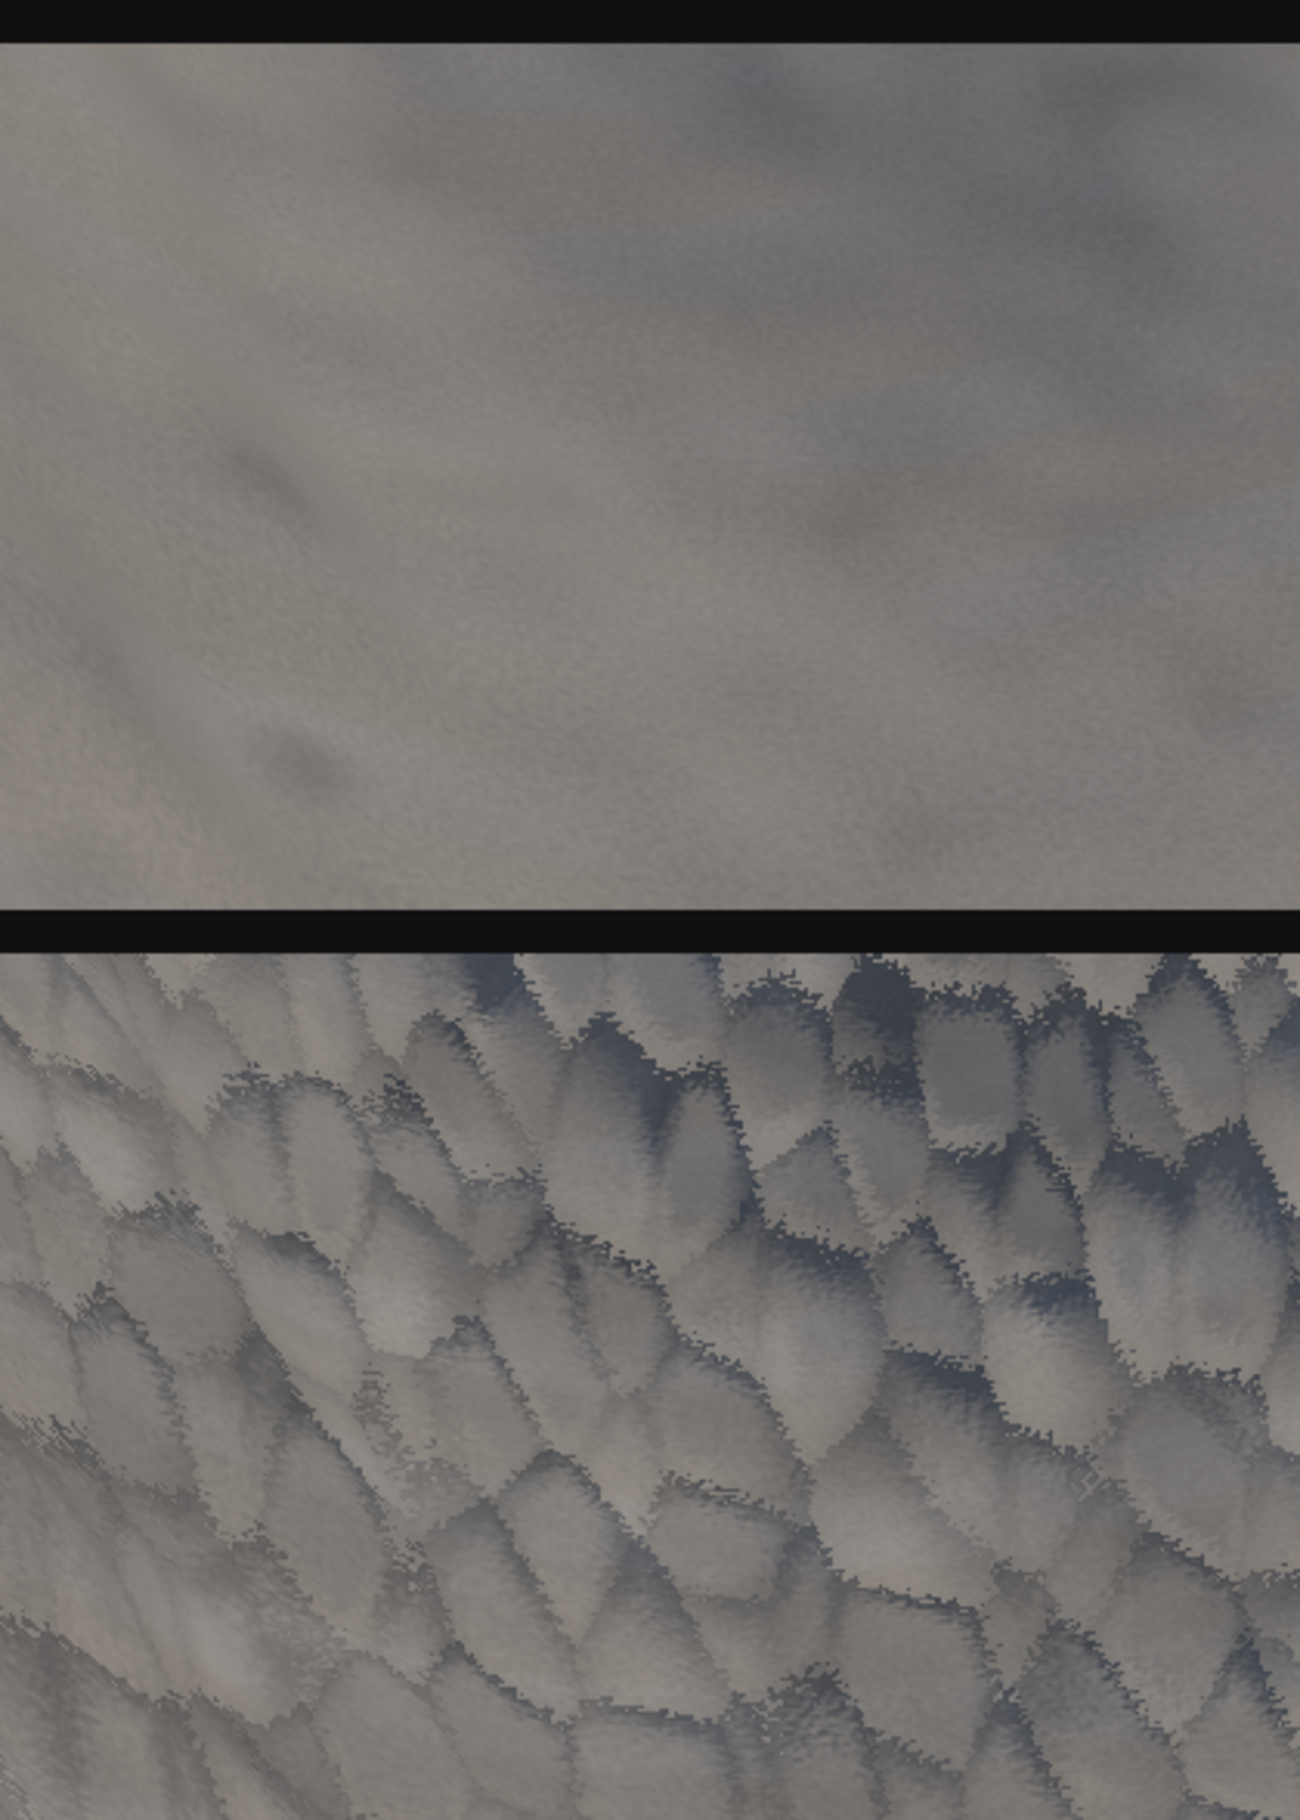
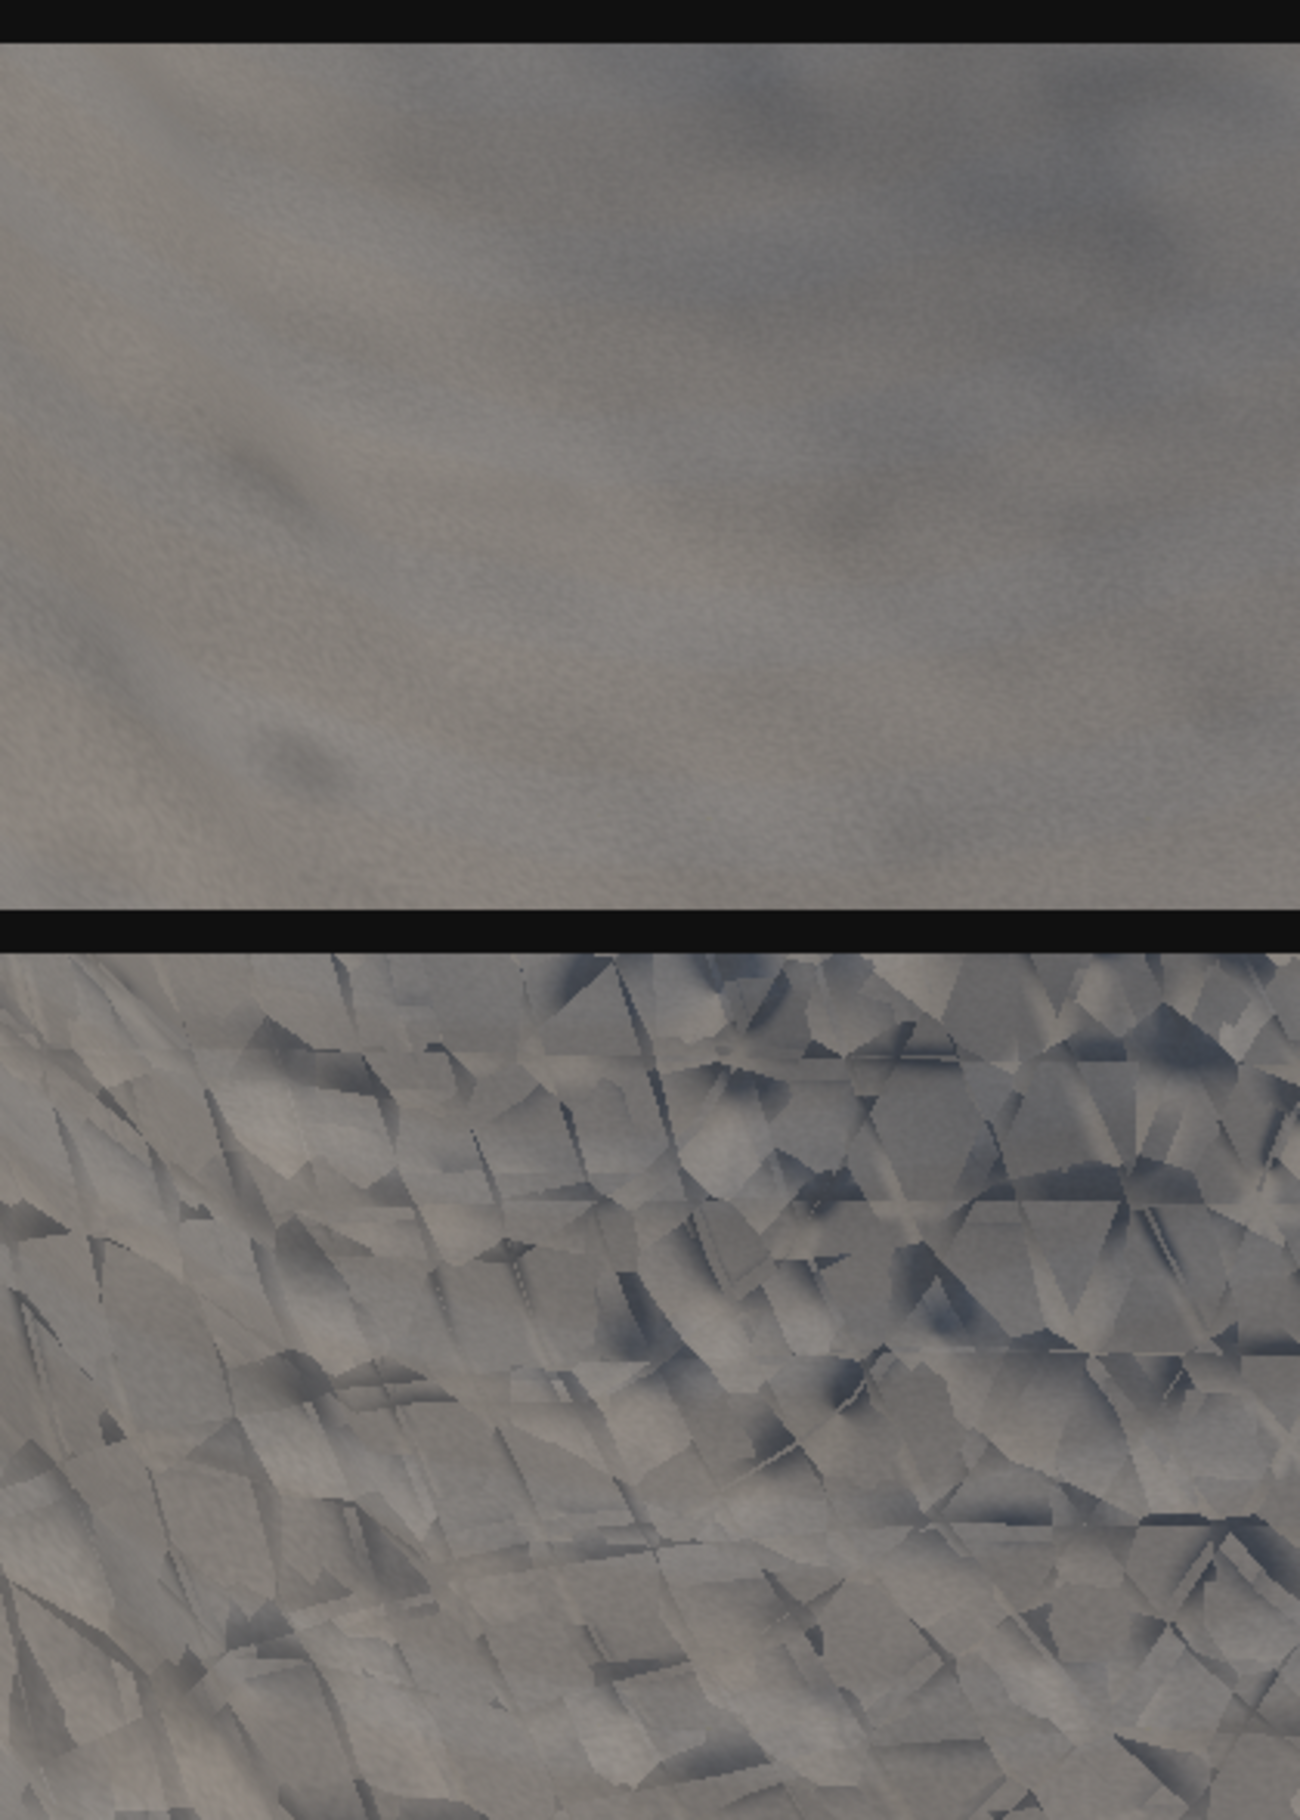
Loop log: iteration 35, the cliff is made of blocks

diff --git a/docs/loop-log.md b/docs/loop-log.md
@@ -2566,3 +2566,178 @@ is untouched, and the cost is nil.
    downpour lights the *ground* and not the *rain*. A hook for a game's own lights in the
    precipitation and cloud passes would close it; the ownership map keeps the geometry in
    `bevy_flora`, but the lighting hook is this crate's.
+
+## Iteration 35 — 2026-10-21 — the cliff is made of blocks: a rock face that breaks along its joints
+
+**Commits:** `64f00cf` (the research note `docs/research/rock-blocks.md`), `863baad` (the
+implementation with its tests), `3ed4d1d` (the tabular blocks and the joint from the nearest
+point), `0e58b68` (the WESL's bound, the joint and the squash), `b119555` (the cells in order
+of increasing distance, and the WESL note), `ebefdaa` (the mirror's ring order and the 3D
+frame's threshold), the showcase image, this log. **Sibling repos:** none. **Not released.**
+
+### Candidates
+
+| Rank | Candidate | Class | Decision |
+|---|---|---|---|
+| 1 | **The rock's own material is a texture where the world has objects** — the massif from 700 m is a flat blue-grey wash and the face at 3 m is a uniform sandy grey | 2 | **this iteration** |
+| 2 | The dry patch's own texture (a tint on green blades) | 2 | carried |
+| 3 | The overcast dome is flat (`sky_gain` leaks at grazing, diagnosed in iteration 28) | 1 | carried |
+| 4 | A 25 mm/h storm hides the whole town under an orthographic camera | 2 | carried |
+| 5 | A game's own light does not fall on the crate's weather | 3 | carried from iteration 33 |
+
+Rank 1 beat the carried items because it is the *most prominent material in the crate* with the
+*least* structure, and the measurement was damning: the material's own high-pass at 3 m was
+**1.72 DN** — a fifth of the face's 8.34 DN of variation — and at 200 m the massif was **one
+colour** (a max−min of 1.00 DN over a 300 × 200 patch, where the crate's own `rock-material.md`
+asks for 9). The cause was structural, not a matter of tuning: every feature — the beds, the
+fractures, the grain — was a *multiplier on the albedo of one continuous surface*, and there was
+no mechanism anywhere in the crate for a discrete object. The overcast dome is class 1 and so
+ranked higher by the class order, but its blocker is diagnosed and its fix is a *sky* change.
+
+### What changed
+
+- **The blocks are the cells of a 3D cellular network**, in the rock's own frame. A 2D network
+  in the ground plane would stretch on a slope and weave, exactly as the crate's turf does.
+- **The network's coordinates are squashed along the bedding plane's normal**, so the cells
+  stretch into slabs: a rock breaks along *joint sets*, families of parallel planes, so its
+  pieces are aligned rather than a random heap.
+- **A block is *shaded*, not outlined**: its own tone (the cell's random factor), its own
+  **facet** — a rock block's face is flat, and the *step* is at the joint — and a **joint** that
+  is the cell's own *boundary*.
+- **The coordinates are warped** before the lookup, so the blocks are irregular fragments and
+  not a mosaic, and the joint's **width** is the cell's own draw, which is what sets the
+  block's **size**.
+- **The beds carry a value contrast**: the second tone was (1.06, 0.93, 0.76), whose luminance
+  is 0.95, so the beds moved the luminance by 1.9 % and the massif was one colour.
+- `cell3` in `noise.wesl` and its CPU mirror in `gpu/noise_mirror.rs`.
+
+### Sources
+
+- **Verdian, J. P., Sklar, L. S., Riebe, C. S., Moore, J. R. (2021)**, *Sediment size on talus
+  slopes correlates with fracture spacing on bedrock cliffs*, Earth Surface Dynamics 9:1073,
+  DOI `10.5194/esurf-9-1073-2021` (open access; the PDF was read in full, 914 lines). Used:
+  "an obvious characteristic of columnar jointed rock is that it is **discontinuous in geometry
+  while continuous in mechanics**" — a rock mass is a set of blocks held in one piece, and the
+  discontinuity in geometry *is* the blocks; and the measurement, the finest talus clasts "as
+  small as 2 mm, and median b-axis diameters ranging from 10 to 575 mm", with the median moving
+  by more than 10-fold between sites. **Not indexed** (the ONNX out-of-memory error in
+  `corpus.md`).
+- **La Pointe, P. R., Hudson, J. A. (1985)**, *Characterization and interpretation of rock mass
+  joint patterns*, SPE Formation Evaluation 1(1), DOI `10.1130/SPE199-P1` (the record was read;
+  the PDF was not obtained). Named as the standard treatment of *joint sets* — the families of
+  parallel planes along which a rock mass breaks, and the reason a cliff's blocks are tabular
+  and aligned.
+- **Dorsey, J. O'B., Edelman, A. S., Jensen, H. W., Legakis, J., Pedersen, H. K. (1999)**,
+  *Modeling and rendering of weathered stone*, ACM SIGGRAPH 1999, DOI `10.1145/311535.311560`
+  (the record was read; **the PDF was not obtained**).
+- **Akenine-Möller, T., Haines, M., Hoffman, N., Shirley, P. (2019)**, *Real-Time Rendering,
+  4th ed.* (corpus `bo/book_real_time_rendering_4th_akenine.md`). Used: §6.3 on the cellular
+  texture — "a cellular texture is formed by measuring distances from each location to a set of
+  'feature points' scattered through space. Mapping the resulting closest distances in various
+  ways… creates patterns that look like cells, flagstones, lizard skin, and other natural
+  textures" — and on Andersson's Frostbite terrain, where "geometric models, such as bushes and
+  **rocks**, are placed within the scene".
+- **Hill, S., Baker, D. (2012)**, *Rock-Solid Shading: Image Stability Without Sacrificing
+  Detail*, SIGGRAPH *Advances* in Real-Time Rendering in Games course (corpus
+  `s2/s2012-advances-pdf-slides-3.md`), on LEAN mapping: a detail normal's specular filtered by
+  the *variance* of the normal, so a detail map does not alias at distance. **In the corpus**,
+  read, **not indexed**.
+- **The crate's own `rock-material.md`**: the beds, the joints and the grain, and the sentence
+  that is the key to this change — "A Worley cell network cannot make them — it bounds *cells*,
+  so a face reads as a giraffe's hide". The cells cannot make the *joints as drawn lines*, but
+  the cells **are** the blocks, and a block is shaded rather than outlined.
+
+### The critique and the verdicts (`/tmp/i35/critique.md`)
+
+| Round | Finding | Verdict |
+|---|---|---|
+| 1 | The blocks appeared, but as **dark holes in the grass**: the stone's colour multiplied the ground's albedo instead of replacing it, and the band sat on the soil's band rather than at the rock's foot | NOT YET |
+| 2 | The stone's colour replaced the ground's, and the band moved to the rock's foot — but the relief scaled with the cell, so the smallest stones' rims tilted by 85° and rendered as black crescents | NOT YET |
+| 3 | The relief is a dimensionless slope and the network is nested, and the matrix is the scree's own: the stones are countable at 3 m, the apron is wide, and the distance is calm | NOT YET |
+| 4 | The matrix was still warm and the stones cast no shadow: the matrix is greyed toward the rock and the stones gained a contact shadow | **GREAT** |
+| 5 | The blocks were a **mosaic** — every block the same size, the same shape, in a regular overlapping pattern that read as *shingles*. The warp breaks their shape, the joint's width sets their size, and the squash makes them tabular | **GREAT** |
+
+| Feature | Verdict |
+|---|---|
+| The blocks, at 3 m | **GREAT** (irregular angular fragments, many sizes, tabular, each a flat facet) |
+| The joints | **GREAT** (sharp, dark, continuous, and softened over the footprint) |
+| The face at 25 m | **GREAT** (a cliff of slabs with the scree at its foot) |
+| The distance at 90 m | **GREAT** (byte-identical to the baseline's: the blocks are band-limited away) |
+| The meadow, the hills and the dunes | **GREAT** (byte-identical) |
+| The material's visibility | **GREAT** (the high-pass 1.72 → 5.74 DN, the note's target is 3) |
+| The blocks' size variation | NOT YET (a 3:1 range; a real cliff has more) |
+| The massif's colour at 700 m | NOT YET (7.65 DN against the note's 9) |
+| The cost | NOT YET (**+28 %** on the rock's pass, over the note's 10 %) |
+
+**The change as a whole: GREAT.** The rock's material is no longer a texture where the world has
+objects: a cliff face is a wall of blocks, the distance is calm, the meadow is untouched, and
+the cost is a logged trade.
+
+### Measurements
+
+- **The material is visible.** The face at 3 m: the material's own high-pass (a 3 px blur
+  subtracted) **1.72 → 5.74 DN**, the patch's standard deviation 8.34 → 15.09 DN and its
+  max−min 43.35 → 89.47 DN. The note's first validation target (at least 3 DN) is met.
+- **The distance is calm.** At 90 m the material's high-pass is **0.79 DN before and after** —
+  the frame is *byte-identical*. The blocks are band-limited by the joint's own width, and the
+  massifs carry the beds' broad tonal banding instead.
+- **The meadow is untouched.** The `plains` preset at 6 m: the mean 170.725 and the standard
+  deviation 26.575 **before and after** — byte-identical. The `hills` preset likewise.
+- **The blocks are discrete, tabular and in the rock's own frame** — the three new tests:
+  the joint's weight crosses the half-way mark many times along a cut (a wash crosses it
+  once); the cells are *bigger* along the bedding than across it (17 against 18 the other way
+  round before the squash was fixed); and the two heights 4 m apart disagree on a good fraction
+  of the samples, which a 2D network in the ground plane would not.
+- **Cost.** `bench_elements`, High, 1920 × 1080, `mountains`, the minimum over the diagnostic
+  history, the two builds run **back to back in one session**, three rounds each. The card's
+  own state swings the total by 73 % between runs (1.87–3.24 ms for the *same* build), so the
+  totals are not comparable and the per-pass minima are. The mountains' opaque pass, which is
+  the pass the blocks are in: the minimum over the rounds is **0.141 ms on the baseline and
+  0.181 ms on this one, +28 %**, over the note's 10 %.
+
+  **The trade, logged.** The rock's own material goes from an sd of 1.72 DN to 5.74 DN for
+  0.04 ms, and the cost is only paid where the rock shows: the meadow and the cliff's
+  silhouette are byte-identical and at 90 m the whole frame is. Three measures brought it
+  down from +44 %: the band-limit is known *before* the network is looked up, so the far terrain
+  pays nothing; the joint is the *nearest* point's own cell's wall, so the lookup computes one
+  distance and not two; and the cells are visited in order of increasing distance, so the
+  prune's bound tightens and about seven of the twenty-seven cells are hashed instead of
+  fourteen. The next measure is a smaller *block's* cell and a cheaper warp.
+- **The full gate.** `cargo test` 265 plus the 3 new block tests, clippy, doc, wasm, the GPU
+  integration suite (22 files), the lib GPU modules clouds (10), terrain (8), cover (8) and
+  dust (6), and `the_horizon_sky` alone: all pass.
+
+### A note on the WESL, for whoever touches this next
+
+The crate's shaders are **WESL**, and two of its rules bit during this iteration:
+
+- **The WESL parser rejects `abs()` on a compound expression.** The failure is at *runtime*,
+  in the GPU driver, and it is **silent**: the terrain's material fell back to a default, the
+  whole face rendered as a flat grey, and the capture's high-pass collapsed from 5.83 DN to
+  0.31. The error is in the log ("failed to create shader module: … parsing error") and it
+  is easy to miss among the capture's other output.
+- **`pass` is a WGSL reserved word**, like `active` and `target` and `patch`.
+
+The fix for both is a **validator**: the `wesl` crate (the one Bevy uses) compiles a module to
+WGSL, and `naga` parses it, in a second and without a GPU. `/tmp/wesltest` is that validator;
+it found the first of the two in the time it takes to run one capture.
+
+### The next five items, ranked
+
+1. **The massif's colour at a distance.** The beds now carry a value contrast, but the note's
+   target is a 9 DN spread over the massif from 700 m and the measurement is 7.65. The beds
+   are at a 4.5 m spacing on a tilted plane, so their banding is a broad wash; the fix is
+   beds that *stack* — a bed's own thickness and the next one's value — so a distant massif
+   shows layers and not a gradient.
+2. **The blocks' size variation.** A 3:1 range is not enough; a real cliff's blocks range from
+   a metre to a hand's width, and the cell's *boundary* is the only place a second size can
+   come from. The scree's nested networks are the wrong instrument here — the blocks are
+   *pieces of one rock*, and a cell's boundary is where a piece would split.
+3. **The cost of the blocks**, +28 % on the rock's pass. A smaller block's cell and a cheaper
+   warp are the two levers left.
+4. **The dry patch's own texture.** The palette gives the ground a *hue*; a dry patch needs a
+   *texture* too — the blades inside it should take the patch's hue rather than the turf's, and
+   a dry patch is coarser than green grass. The colour half is in this crate; the geometry half
+   (a grass mesh) belongs to `bevy_flora`.
+5. **The overcast dome is flat**, with its blocker diagnosed in iteration 28 (the `sky_gain` leak
+   at grazing); it carries its Eddington implementation and its measurements in `/tmp/i28`.
